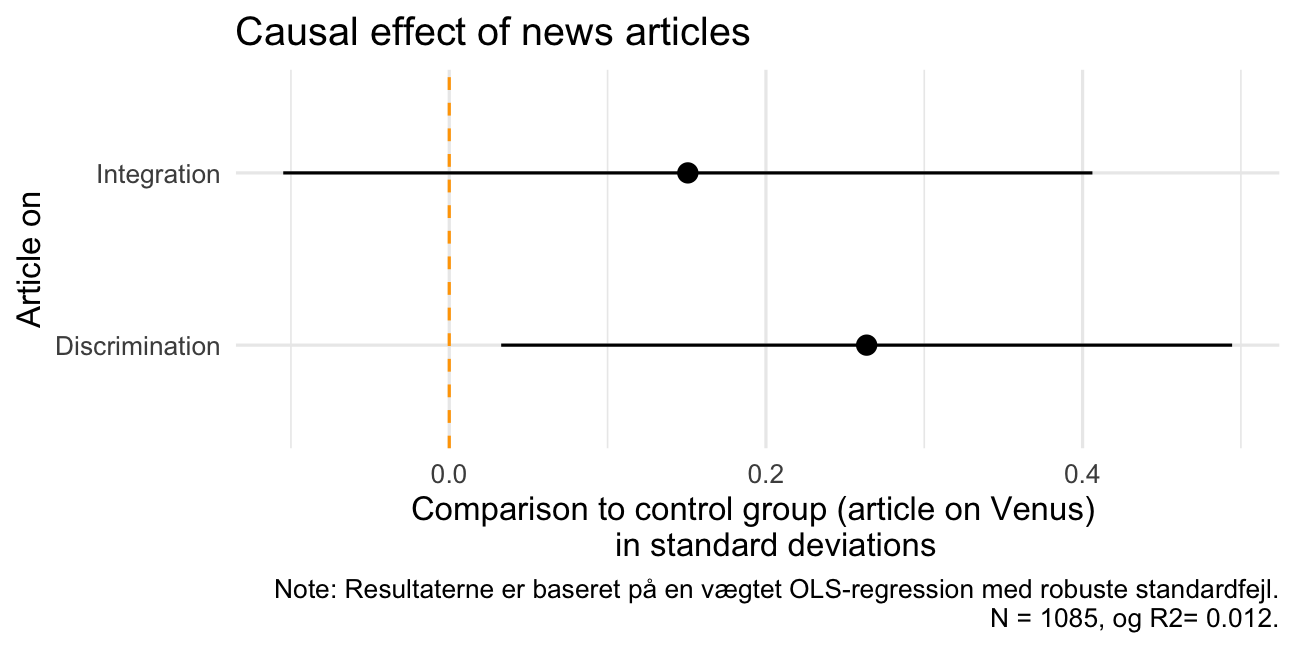
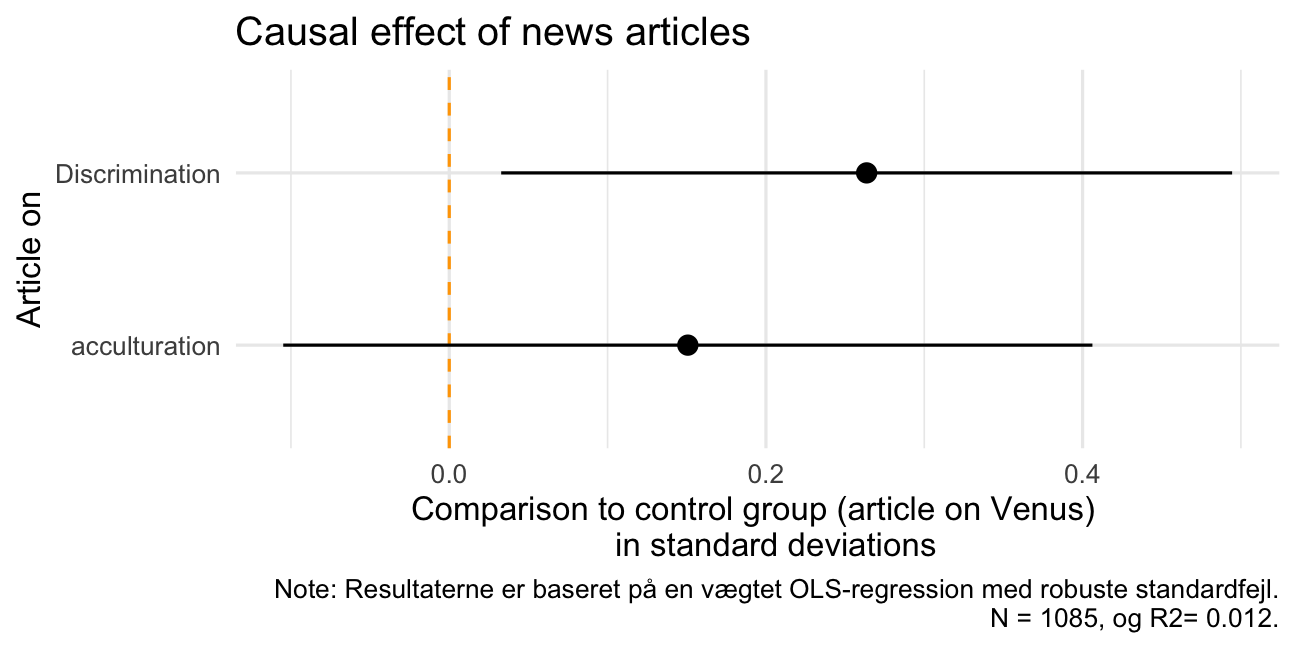
Updates to lecture 6

diff --git a/static/Lectures/6-RCTees/6-RCTees.html b/static/Lectures/6-RCTees/6-RCTees.html
@@ -4,7 +4,7 @@
     <title>Multiple Regression &amp;    Fundamentals of Causal Inference</title>
     <meta charset="utf-8" />
     <meta name="author" content="Merlin Schaeffer  Department of Sociology" />
-    <meta name="date" content="2023-08-14" />
+    <meta name="date" content="2023-10-11" />
     <script src="libs/header-attrs/header-attrs.js"></script>
     <link href="libs/tile-view/tile-view.css" rel="stylesheet" />
     <script src="libs/tile-view/tile-view.js"></script>
@@ -29,7 +29,7 @@ class: center, middle, inverse, title-slide
 ### Merlin Schaeffer<br> Department of Sociology
 ]
 .date[
-### 2023-08-14
+### 2023-10-11
 ]
 
 ---
@@ -375,7 +375,7 @@ layout: true
 .left-column[
 - We do not *passively observe*, &lt;br&gt; we .alert[actively intervene].
 
-- Thereby *we* control, who gets `\(X\)` and who does not!
+- Thereby *we* control, who gets `\(D\)` and who does not!
 
 &lt;img src="./img/randomization1.png" width="67%" style="display: block; margin: auto;" /&gt;
 ]
@@ -393,7 +393,7 @@ layout: true
 &lt;img src="6-RCTees_files/figure-html/unnamed-chunk-10-1.png" width="70%" style="display: block; margin: auto;" /&gt;
 
 .content-box-green[.center[
-How can we `\(\color{red}{I}\)`ntervene to ensure that there is no correlation between the treatment and any confounders?
+How can we `\(\color{red}{I}\)`ntervene to ensure that there is no correlation between the treatment `\(D\)` and any confounders `\(C\)`?
 ]]]
 
 ---
@@ -469,7 +469,8 @@ layout: false
 
 If we *randomly* divide subjects into treatment and control groups, .alert[they come from the same underlying population]. 
   &lt;br&gt; &lt;br&gt; `\(\rightarrow\)` They will be similar, on average, *in every way*;&lt;br&gt; **including their `\(Y_{0}\)` **!
-
+  &lt;br&gt; &lt;br&gt; `\(\rightarrow E[Y_{0i}|D=1] = E[Y_{0i}|D=0]\)`!
+  
 **Beware**, in practice randomization can fail, especially if your sample is small.
 ]
 
@@ -486,6 +487,8 @@ If we *randomly* divide subjects into treatment and control groups, .alert[they 
 If we *randomly* divide subjects into treatment and control groups, .alert[they come from the same underlying population]. 
     &lt;br&gt; &lt;br&gt; `\(\rightarrow\)` They will be similar, on average, *in every way*;&lt;br&gt; **including their `\(Y_{0}\)` **!
     &lt;br&gt; &lt;br&gt; `\(\rightarrow E[Y_{0i}|D=1] = E[Y_{0i}|D=0]\)`!
+    
+**Beware**, in practice randomization can fail, especially if your sample is small.
 ]
 
 --
@@ -503,6 +506,8 @@ If we *randomly* divide subjects into treatment and control groups, .alert[they 
 Because of the randomization, there is no backdoor path. &lt;br&gt;&lt;br&gt; `\(\rightarrow\)` no path from `\(I\)` to `\(Y\)` that starts with an arrow into `\(I\)`.
 
 `\(\Rightarrow\)` No selection/confounder bias!
+
+**Beware**, in practice randomization can fail, especially if your sample is small.
 ]
 
 .right-column[
@@ -523,13 +528,13 @@ We asked APAX subjects to read a news article.
 
 &lt;br&gt;
 
-We.alert[randomly] decided, who got:
+We .alert[randomly] decided, who got:
 
   + Venus `\(\rightarrow\)` *control group*, 
   
   + Discrimination `\(\rightarrow\)` *treatment group 1*,
   
-  + Integration `\(\rightarrow\)` *treatment group 2*.
+  + Acculturation `\(\rightarrow\)` *treatment group 2*.
 ]
 
 ---
@@ -652,21 +657,6 @@ layout: false
 
 
 ]
-.panel[.panel-name[R code]
-
-```r
-APAX %&gt;%
-  # Select variables for which I want my balance test,
-  select(article, news_yn, age, nbh_exposed, imor, german, gewFAKT) %&gt;%
-  rename(weights = gewFAKT) %&gt;% # Rename the weights variable! 
-  datasummary_balance( # Make a balance table,
-*   formula = ~ article, # by treatment/control
-*   data = . , # pipe APAx data here
-    title = "Socio-demographic characterisitcs by treatment and control"
-  )
-```
-]
-
 .panel[.panel-name[Balance table (RCT news)]
 &lt;table class="table" style="width: auto !important; margin-left: auto; margin-right: auto;"&gt;
 &lt;caption&gt;Socio-demographic characterisitcs by treatment and control&lt;/caption&gt;
@@ -773,12 +763,29 @@ APAX %&gt;%
 &lt;/table&gt;
 
 
+]
+
+.panel[.panel-name[R code]
+
+```r
+APAX %&gt;%
+  # Select variables for which I want my balance test,
+  select(article, news_yn, age, nbh_exposed, imor, german, gewFAKT) %&gt;%
+  rename(weights = gewFAKT) %&gt;% # Rename the weights variable! 
+  datasummary_balance( # Make a balance table,
+*   formula = ~ article, # by treatment/control
+*   data = . , # pipe APAx data here
+    title = "Socio-demographic characterisitcs by treatment and control"
+  )
+```
 ]]
 
 ---
 # Causal effect of news articles
 
 .push-left[.font90[
+&lt;br&gt;
+
 
 ```r
 # Run OLS regression to analyze the survey RCT.
@@ -791,7 +798,7 @@ modelsummary( # Regression table
   list("Discr." = ols, "Z-Discr." = zols), stars = TRUE,
   coef_map = c("(Intercept)" = "Intercept (Venus control)", 
                "articleTreat_1" = "Article on discrimination", 
-               "articleTreat_2" = "Article on integration"),
+               "articleTreat_2" = "Article on acculturation"),
   gof_map = c("nobs", "r.squared"))
 ```
 ]]
@@ -799,6 +806,8 @@ modelsummary( # Regression table
 --
 
 .push-right[
+&lt;br&gt;
+
 &lt;table style="NAborder-bottom: 0; width: auto !important; margin-left: auto; margin-right: auto;" class="table"&gt;
  &lt;thead&gt;
   &lt;tr&gt;
@@ -829,7 +838,7 @@ modelsummary( # Regression table
    &lt;td style="text-align:center;"&gt; (0.118) &lt;/td&gt;
   &lt;/tr&gt;
   &lt;tr&gt;
-   &lt;td style="text-align:left;"&gt; Article on integration &lt;/td&gt;
+   &lt;td style="text-align:left;"&gt; Article on acculturation &lt;/td&gt;
    &lt;td style="text-align:center;"&gt; 0.137 &lt;/td&gt;
    &lt;td style="text-align:center;"&gt; 0.151 &lt;/td&gt;
   &lt;/tr&gt;
@@ -869,7 +878,7 @@ plotdata &lt;- zols %&gt;%
   mutate( # Rename variables for the plot.
     term = case_when(
       term == "articleTreat_1" ~ "Discrimination",
-      term == "articleTreat_2" ~ "Integration"))
+      term == "articleTreat_2" ~ "acculturation"))
 
 ggplot(data = plotdata,  aes(y = estimate, x = term)) +
   geom_hline(yintercept = 0, color = "orange", 
